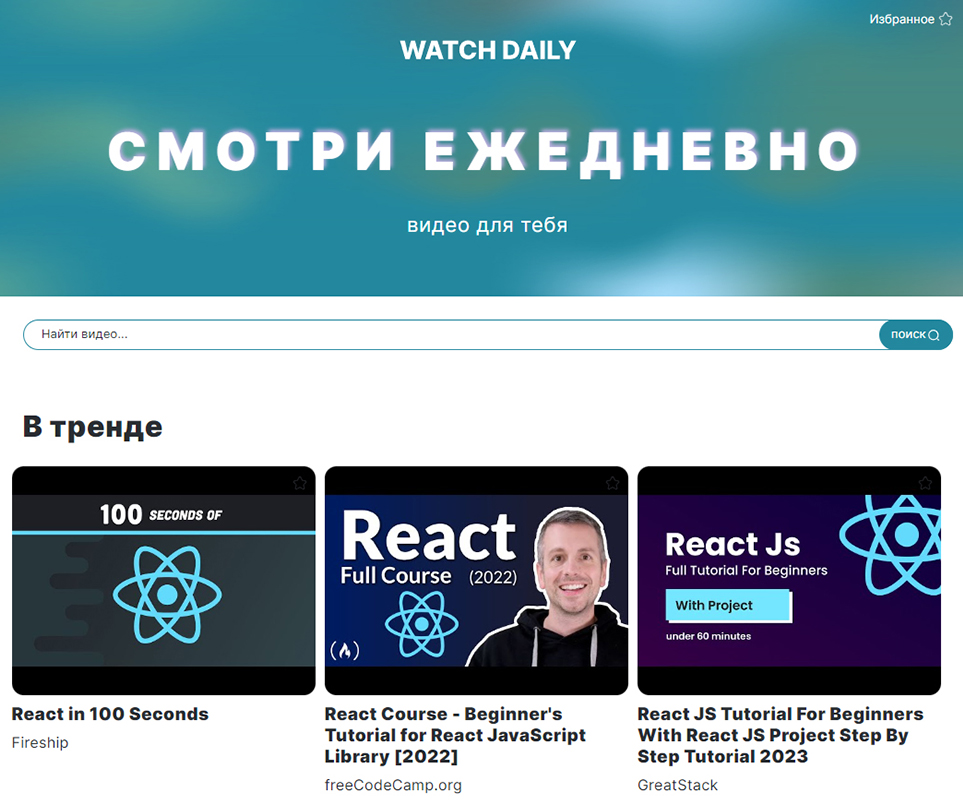
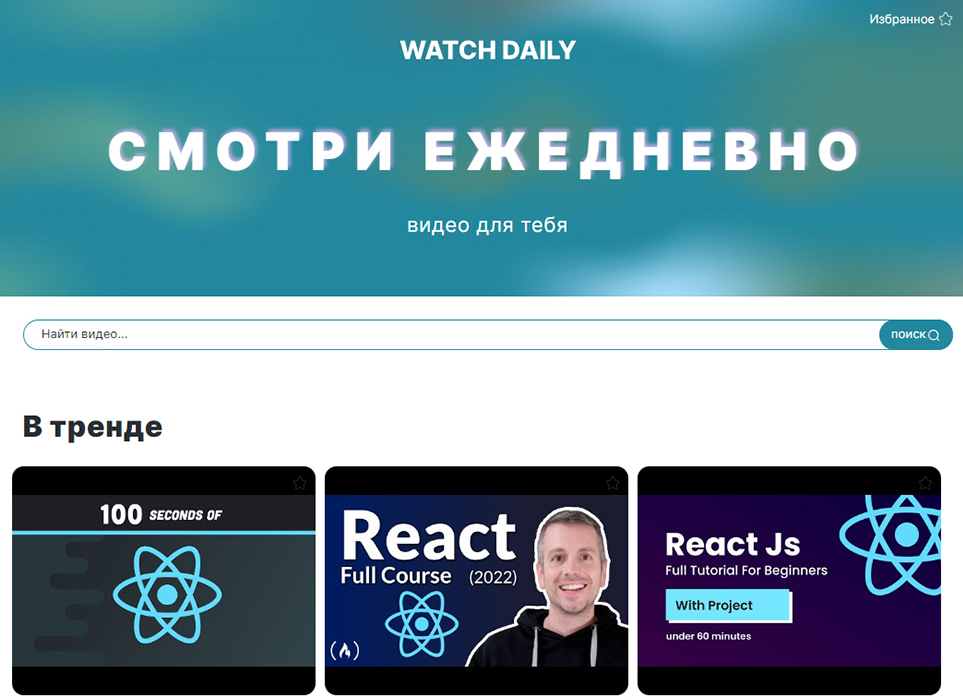
style project

diff --git a/css/style.css b/css/style.css
@@ -66,20 +66,19 @@ p {
   gap: 100px;
 }
 .projects {
-  max-width: 602px;
-  height: 482px;
+  width: 602px;
+  height: 570px;
 }
 .project__slider {
-  width: 3990px;
-  height: 450px;
+  width: 4214px;
+  height: 570px;
   background-color: chartreuse;
   display: flex;
   position: relative;
-  left: 100px;
 }
 .project {
-  max-width: 570px;
-  height: 450px;
+  width: 570px;
+  height: 570px;
   padding: 1rem;
   display: flex;
   flex-direction: column;
@@ -89,9 +88,15 @@ p {
 }
 .project__photo {
   border-radius: 0.5rem;
+  min-width: 100%;
+  min-height: 70%;
+  flex-shrink: 0;
 }
 .project__link {
   display: flex;
   flex-direction: row;
   justify-content: space-between;
+}
+.slider__next {
+  padding: 100px 0 100px;
 }

diff --git a/index.html b/index.html
@@ -223,7 +223,7 @@
           </div>
         </div>
       </div>
-      <button class="slider__next">
+      <button class="slider__prev">
         <img src="img/arrow-left.png" width="20" height="20" />
       </button>
       <button class="slider__next">
@@ -254,5 +254,6 @@
       </div>
       <footer class="footer">footer</footer>
     </div>
+    <script src="script.js"></script>
   </body>
 </html>

diff --git a/script.js b/script.js
@@ -1,0 +1,9 @@
+let offset = 0;
+const sliderLine = document.querySelector('.project__slider');
+document.querySelector('.slider__next').addEventListener('click', function () {
+  offset = offset + 602;
+  if (offset > 4214) {
+    offset = 0;
+  }
+  sliderLine.style.left = offset + 'px';
+});
